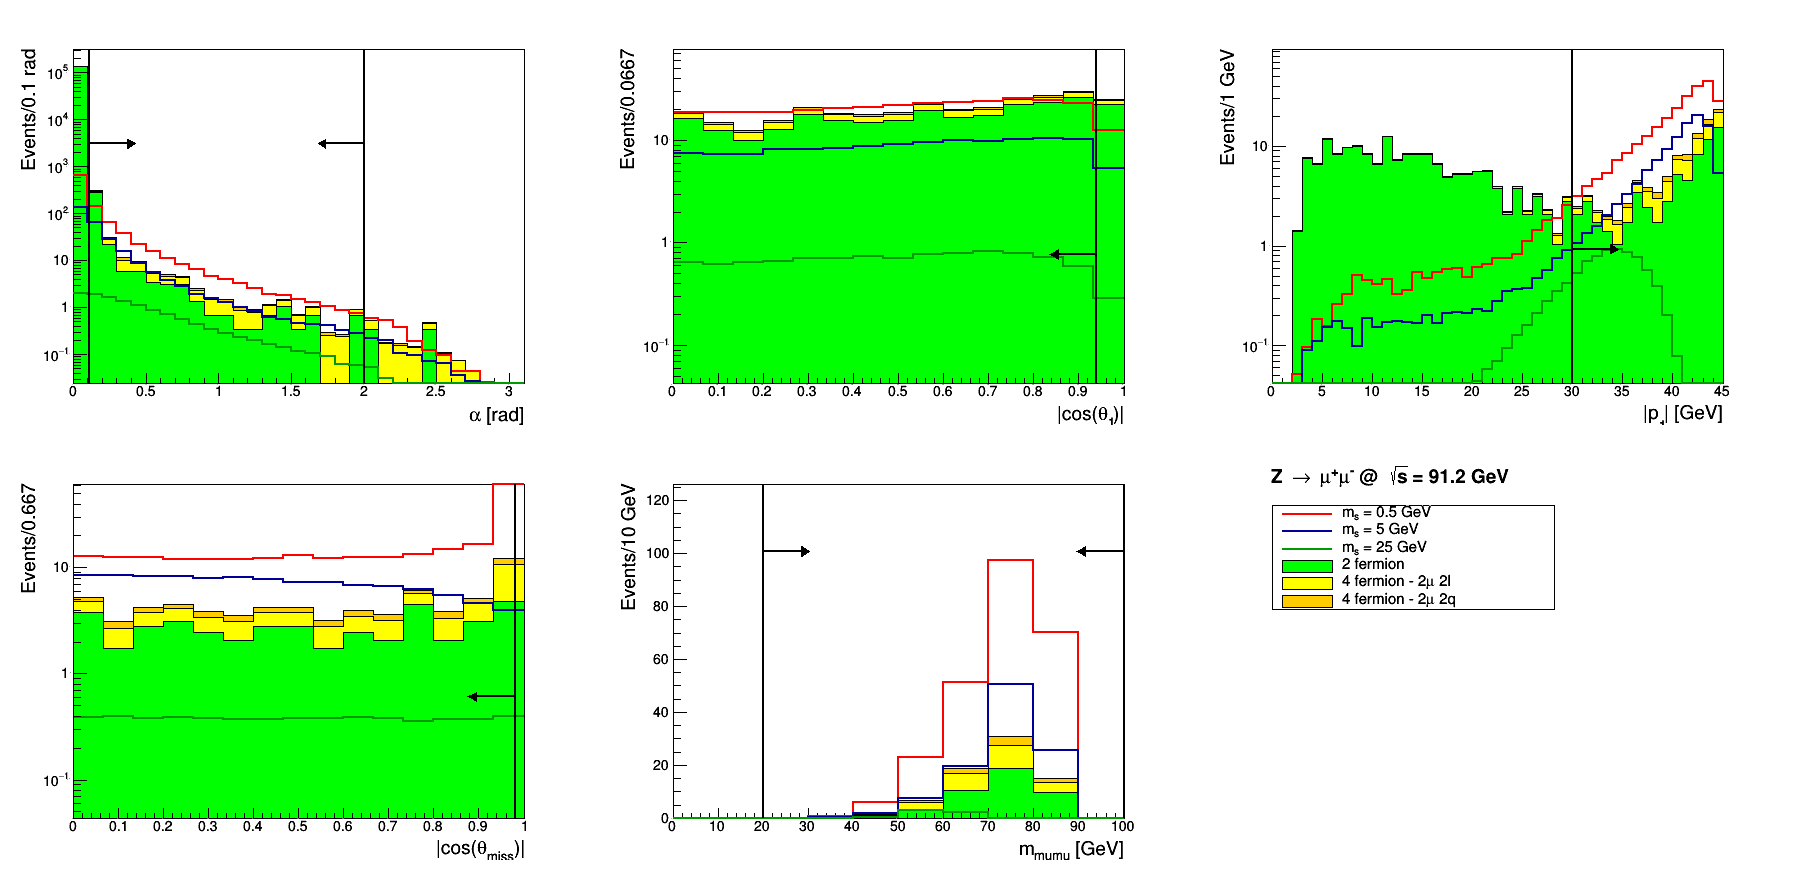
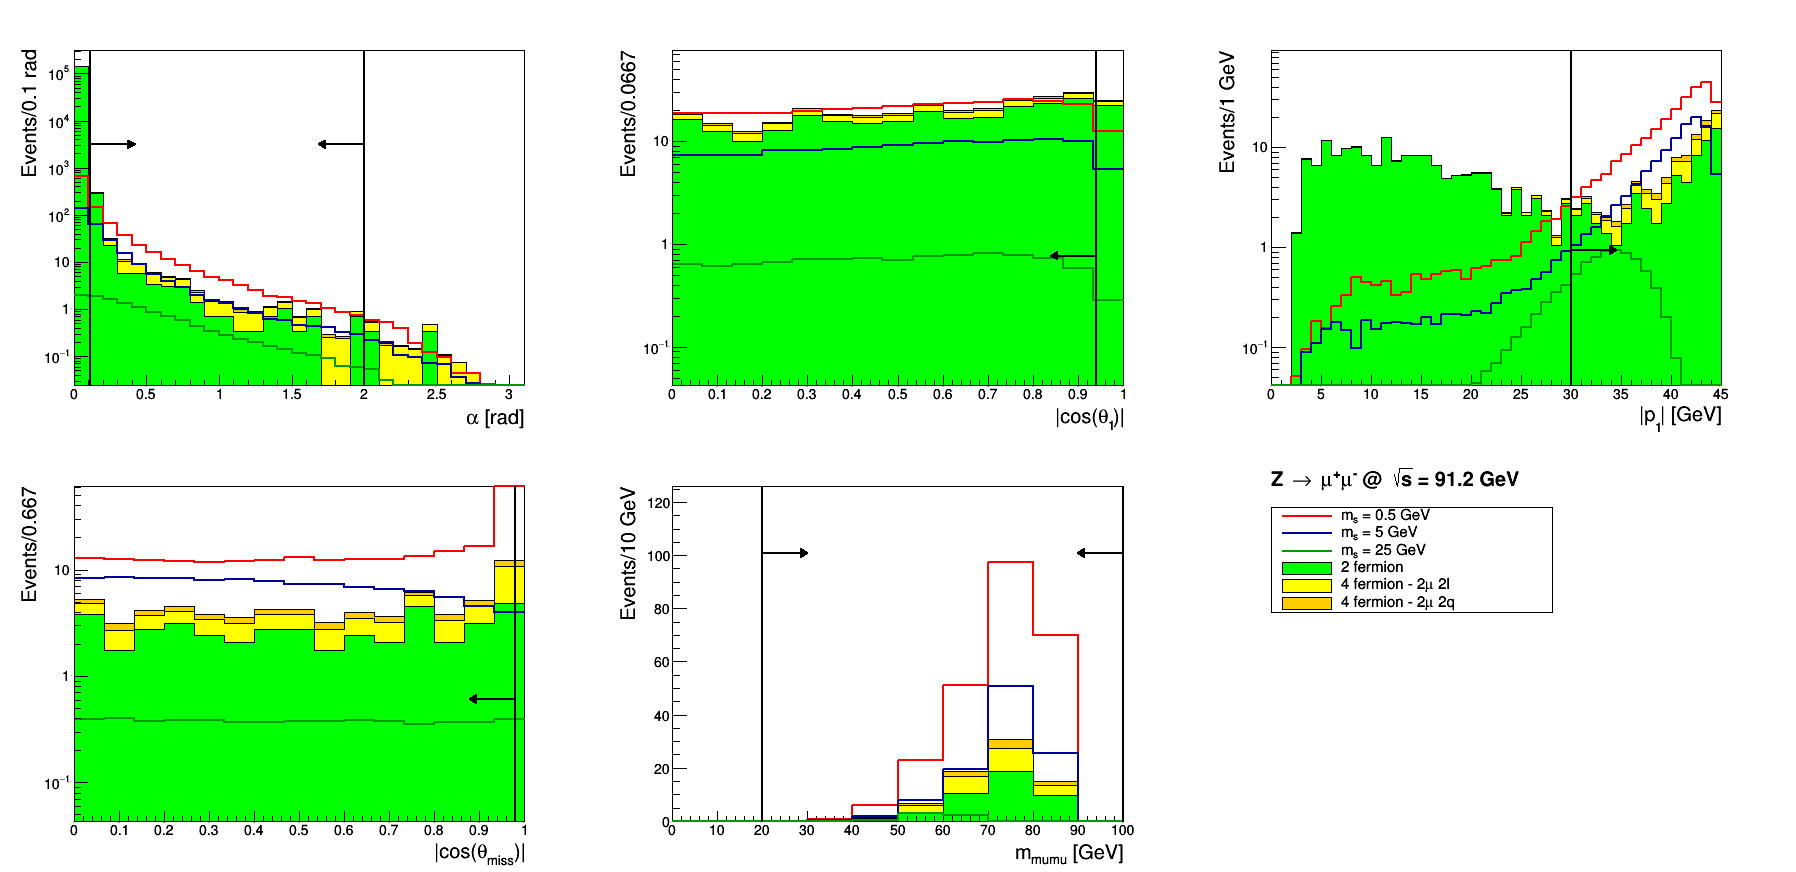
limit plot after rebinning

diff --git a/scripts/check_ntuple.py b/scripts/check_ntuple.py
@@ -1487,9 +1487,9 @@ c_muon_rec = ROOT.TCanvas()
 c_muon_rec.cd()
 hs_sig_mu_rec = ROOT.THStack("hs_sig_mu_rec","")
 hs_bkg_mu_rec = ROOT.THStack("hs_bkg_mu_rec","")
-mu_rec_xlow = -40
-mu_rec_xhigh = 60
-mu_rec_nbins = 20
+mu_rec_xlow = -5
+mu_rec_xhigh = 40
+mu_rec_nbins = 18
 mu_rec_descrp = "Z #rightarrow #mu^{+}#mu^{-} vs. m_{mumu} @ 91.2 GeV"
 hist_mu_0p5_rec = ROOT.TH1F("mu_0p5_m_rec",
 mu_rec_descrp, mu_rec_nbins, mu_rec_xlow, mu_rec_xhigh)
@@ -1509,6 +1509,15 @@ hist_mu_4f_rec = ROOT.TH1F("mu_4f_m_rec",
 mu_rec_descrp, mu_rec_nbins, mu_rec_xlow, mu_rec_xhigh)
 hist_mu_4fqq_rec = ROOT.TH1F("mu_4fqq_m_rec",
 mu_rec_descrp, mu_rec_nbins, mu_rec_xlow, mu_rec_xhigh)
+hist_mu_0p5_rec.SetDefaultSumw2() 
+hist_mu_2_rec.SetDefaultSumw2()
+hist_mu_5_rec.SetDefaultSumw2()
+hist_mu_10_rec.SetDefaultSumw2()
+hist_mu_15_rec.SetDefaultSumw2()
+hist_mu_25_rec.SetDefaultSumw2()
+hist_mu_2f_rec.SetDefaultSumw2()
+hist_mu_4f_rec.SetDefaultSumw2()
+hist_mu_4fqq_rec.SetDefaultSumw2()
 muons['0p5'].Draw("m_rec>>mu_0p5_m_rec", mu_cut_5, "goff")
 muons['2'].Draw("m_rec>>mu_2_m_rec", mu_cut_5, "goff")
 muons['5'].Draw("m_rec>>mu_5_m_rec", mu_cut_5, "goff")
@@ -1547,8 +1556,8 @@ hist_mu_4fqq_rec.SetLineStyle(1)
 
 hs_bkg_mu_rec.SetMinimum(0)
 hs_sig_mu_rec.SetMinimum(0)
-hs_bkg_mu_rec.SetMaximum(180)
-hs_sig_mu_rec.SetMaximum(180)
+hs_bkg_mu_rec.SetMaximum(50)
+hs_sig_mu_rec.SetMaximum(50)
 
 hs_sig_mu_rec.Add(hist_mu_0p5_rec)
 hs_sig_mu_rec.Add(hist_mu_5_rec)
